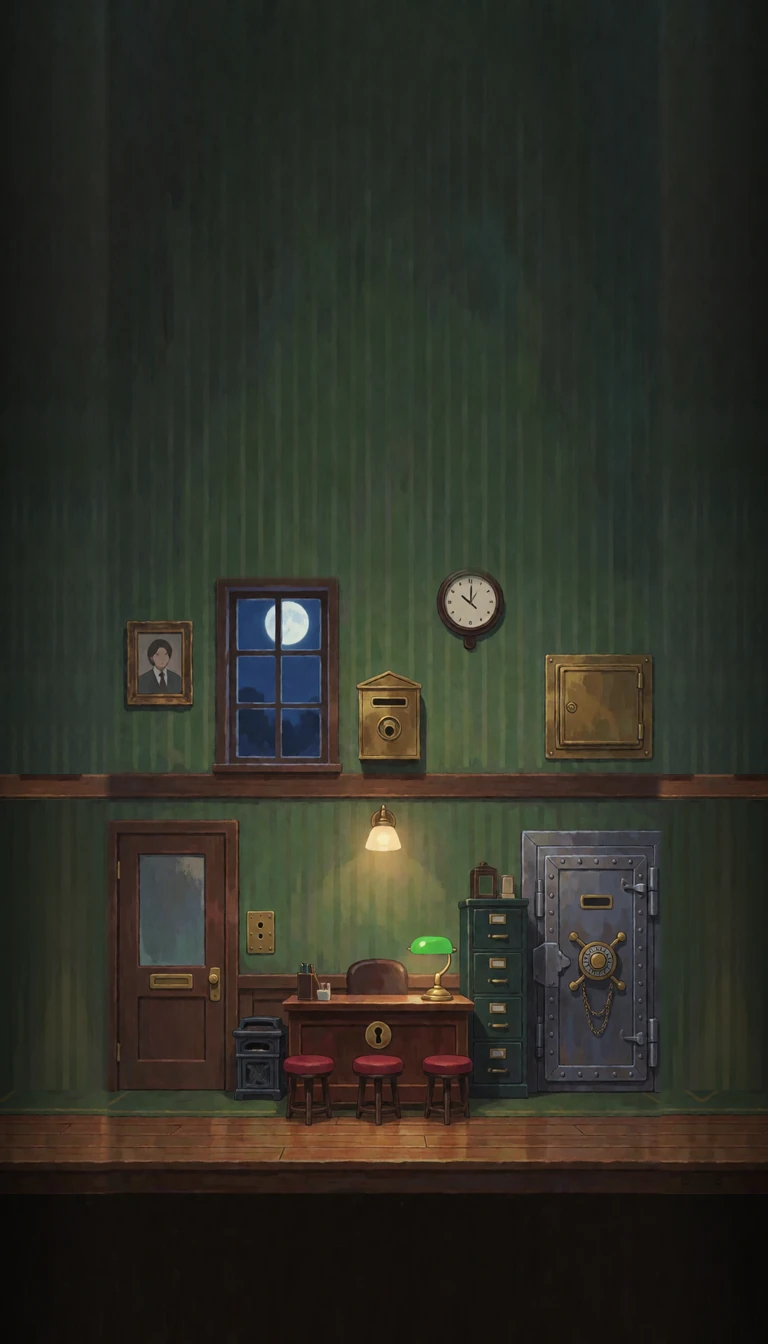
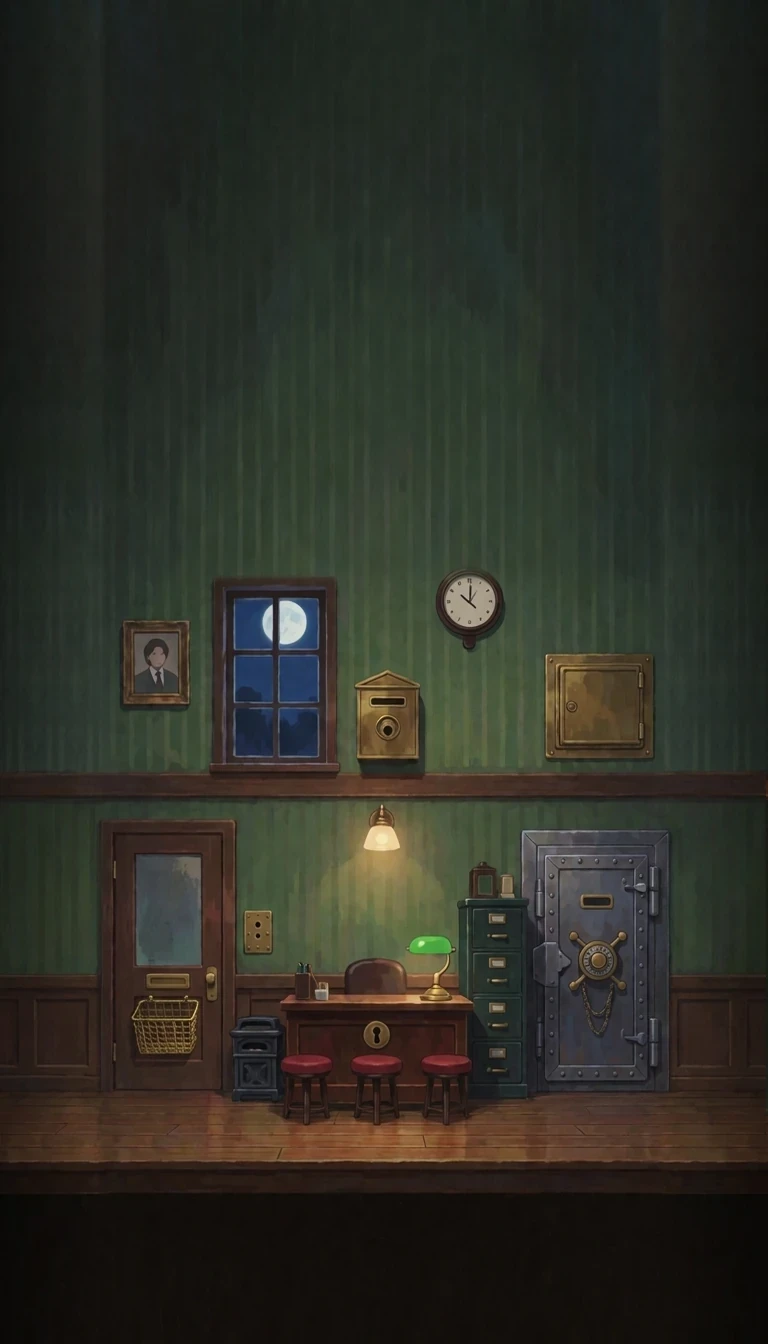
Rush claim 7: repaint the office backdrops (#243)
* Rush: sound (the floor's loop and stings, rain at the dock, recorded samples for the room)

Claude-Session: https://claude.ai/code/session_01JTmPY97Ydb1cE7nuacW8cg

* Rush: Ladi's Mureka music, a cellar loop, a dock loop and the closed and flooded stings

Claude-Session: https://claude.ai/code/session_01JTmPY97Ydb1cE7nuacW8cg

* Rush: claim 6, the Hot Shelf (DynamoDB partitions and hot keys)

The Records Vault: four cabinets are the table's partitions, each with a
write ceiling. One caller's key is hot and throttles its cabinet; the
suffix stamp (write sharding) spreads it, and the on-demand dial is the
trap (it can't lift one partition past its ceiling). The vault is its
own room with its own layout and props (pneumatic tube, vault wheel,
manila folders, filing drawer, step carts, records desk, cabinets),
drawn as placeholders by tools/rush_vault_art.js and swapped in by room.

The review cellar runs alongside with a shared tank, shown in a live
inset (tap, Tab or Q to switch). Review questions come from the run's
answer book, and the intern (a coin buy) answers the ones you've solved,
wrong a quarter of the time; tap its answers to check them.

Also: the Eventually consistent Night Order, six Hot Shelf letters,
sim columns for both rooms, and rush_check through claim 6 with the
hot-cabinet and intern scenarios.

Claude-Session: https://claude.ai/code/session_01JTmPY97Ydb1cE7nuacW8cg
[…]

diff --git a/game/tools/office_art.py b/game/tools/office_art.py
@@ -143,7 +143,7 @@ ROOMS = {
                         bands=[(30, 491, (270, 60, 345, 330), (0, 60, 12, 420)),
                                (491, 640, (395, 428, 488, 662), (0, 440, 12, 640)),
                                (640, 768, (30, 668, 240, 768), None)],
-                        baskets=[(522, 646, 68, 30)]),
+                        baskets=[]),  # the door's in-tray is already painted; the waiting basket is a sprite
     # Tall: the door (y 748-1118, 370 px) becomes 270 px, so scale 0.73; door foot on y 1090 (high enough that the
     # stools clear the phone's belt, and less bare wall above the room).
     # Game coords of a render point (x, y): (103 + 0.73x, 274 + 0.73y).
@@ -154,8 +154,8 @@ ROOMS = {
                                (800, 1090, (240, 725, 330, 870), (755, 700, 768, 760)),
                                (1090, 1194, (10, 1122, 170, 1258), None),
                                (1194, 1344, (10, 1262, 170, 1344), None)],
-                        # wire baskets sketched in for the repaint: the waiting basket, and an in-tray under the slot
-                        baskets=[(196, 1158, 68, 30), (176, 1022, 56, 22)]),
+                        # a wire in-tray sketched under the slot for the repaint (the waiting basket is a sprite)
+                        baskets=[(176, 1022, 56, 22)]),
 }
 
 # ---- Sprites: (source, out name, longest side in px at 2x the on-screen size) ----

diff --git a/game/CREDITS.md b/game/CREDITS.md
@@ -108,7 +108,7 @@ Everything here was first made for or gathered by the first game, [Isekai'd Into
 | The Rush prototype's other sound (`rush.html`) | No new files: it reuses recordings already credited here, the rain bed `a-rain`, and the samples `s-x-lever`, `s-x-bell`, `s-x-stamp`, `s-x-page`, `s-x-lock`, `s-x-tick`, `s-x-chime`, `s-thud`, `s-clank2`, `s-coin`, `s-right` and `s-wrong`, with the synth in `js/audio.js` for the rest | As credited on each file's own line | The Rush prototype (`js/rush.js`) |
 | The Rush's Records Vault, claim 6: the props in `assets/img/rush/vault/` (three record folders, the filing drawer, two step stools, the records desk) | Generated with Sogni AI (krea2_turbo_fp8_scaled) on Ladi's account on 2026-11-17, from prompts written for this game (project files real-game/v3/claims/claim-6/sogni-prompts.md); one take picked from two for each, cut out of their plain backgrounds and resized by `tools/rush_vault_pack.py`, converted to WebP | Generated for this game; used under Sogni's terms for generated output | The Rush prototype, claim 6 (`rush.html`, `js/rush.js`) |
 | The Rush's painted buys (`assets/img/rush/props/*.webp`): the ledger, hourglass, stopwatch, filter funnel, suffix stamp, on-demand dial, intern's clipboard, memory module, warm stool, jitter gauge, hand-off tray, TTL tag, partial-batch clipboard, failure crate, retry dial, the office's waiting basket and the yard's manifest | Generated with Sogni AI (krea2_turbo_fp8_scaled) on Ladi's account (subscription, no Spark) on 2026-11-17, from prompts written for this game; one take picked from two to six for each, cut out of their plain grey backgrounds, trimmed and resized, converted to WebP | Generated for this game; used under Sogni's terms for generated output | The Rush prototype's belt and rooms, claims 1 to 7 and 9 (`rush.html`, `js/rush.js`); the code drawings stay as a fallback |
-| The Rush's Locked Desk, claim 7: the postmaster's office, wide and tall (`assets/img/rush/office-wide.webp`, `office-tall.webp`), and its sprites (`assets/img/rush/of-*.webp`: the latch in three lamp colours, the cabinet sign in three settings, the desk lock and turned key, Mira seated, the badge, the keyring, the data-key pad, the key tin, the drawer, the safe and its turning dial, the sticky note, the dumbwaiter, the shredder, the key box's red light, and the letters and parcels by kind) | Generated with Sogni AI (krea2_turbo_fp8_scaled) on Ladi's account, 2026-11-17, from prompts written for this game (project files real-game/v3/claims/claim-7/sogni-prompts.md); one take picked for each. No other image model was used: the rooms were scaled to the game's human scale and extended to the frame from the renders' own wall, wainscot and floor, and the props cut out of their plain backgrounds, by `tools/office_art.py` (PIL), then converted to WebP | Generated for this game; used under Sogni's terms for generated output | The Rush prototype, claim 7 (`rush.html?claim=locked`, `js/rush.js`) |
+| The Rush's Locked Desk, claim 7: the postmaster's office, wide and tall (`assets/img/rush/office-wide.webp`, `office-tall.webp`), and its sprites (`assets/img/rush/of-*.webp`: the latch in three lamp colours, the cabinet sign in three settings, the desk lock and turned key, Mira seated, the badge, the keyring, the data-key pad, the key tin, the drawer, the safe and its turning dial, the sticky note, the dumbwaiter, the shredder, the key box's red light, and the letters and parcels by kind) | Generated with Sogni AI (krea2_turbo_fp8_scaled) on Ladi's account, 2026-11-17, from prompts written for this game (project files real-game/v3/claims/claim-7/sogni-prompts.md); one take picked for each. The rooms were scaled to the game's human scale and extended to the frame from the renders' own wall, wainscot and floor by `tools/office_art.py` (PIL), then each room was repainted once with Google Gemini (gemini-3-pro-image-preview, prompt `tools/office_repaint_prompt.txt`, 2026-11-17) to blend the seams and paint the door's wire in-tray, fitted back by `office_art.py --gem-fit`; a stray hanging plate the repaint added to the tall room was patched back to the Sogni wall. The props were cut out of their plain backgrounds by `office_art.py` and converted to WebP | Generated for this game; used under Sogni's terms for generated output | The Rush prototype, claim 7 (`rush.html?claim=locked`, `js/rush.js`) |
 | The Records Vault's room (`assets/img/rush/vault-wide.webp`, `vault-tall.webp`) with its vault door, four filing cabinets, pneumatic tube, mail basket and desk painted in | Ladi's Sogni vault backdrop and props above, laid out as a rough collage, then repainted as one room by Google's Gemini image model (gemini-3-pro-image-preview) through the Gemini API on Ladi's account on 2026-11-17 (the wide room repainted to one human scale in two edits; the tall one recomposed from it, its fourth cabinet pasted in and the wall behind repainted; the door's wheel redrawn face-on in a close-up edit by the same model and pasted back over a circle); scaled to the game's size and converted to WebP | Sogni's terms for the source images; the [Gemini API Additional Terms of Service](https://ai.google.dev/gemini-api/terms) for the edits | The Rush prototype, claim 6 (`rush.html`, `js/rush.js`) |
 | The Night Audit's Watch Room, claim 8: the sprites in `assets/img/rush/watch/` (the porter standing and walking, the gauge and the 1-second dial, four ticket capsules, the tracer spool, the pin, the klaxon, the EMF stamp, the tally, the rule card, the lens, the logbook, the Engine's shutter, the clock key, the question table and the mail slot) | Generated with Sogni AI (krea2_turbo_fp8_scaled) on Ladi's account, 2026-11-17, from prompts written for this game (project files real-game/v3/claims/claim-8/sogni-prompts.md); cut out of their plain backgrounds and resized by `tools/rush_watch_pack.py`, converted to WebP | Generated for this game; used under Sogni's terms for generated output | The Rush prototype, claim 8 (`rush.html?claim=audit`, `js/rush.js`) |
 | The Watch Room itself, wide and tall (`assets/img/rush/watch-wide.webp`, `watch-tall.webp`), with its four cabinets, longcase clock, ink column and out basket painted in | Generated with Sogni AI (krea2_turbo_fp8_scaled) on Ladi's account, 2026-11-17 (the empty rooms and the props above), laid out as a rough collage by `tools/rush_watch_collage.py`, then repainted as one room by Google's Gemini image model (gemini-3-pro-image-preview) through the Gemini API on Ladi's account on 2026-11-17 (one edit each, wide and tall); cropped to the game's size by `tools/rush_watch_pack.py` and converted to WebP. The clock's hands and face, the gauges' needles, the ink and everything bought are still drawn in code; no new sounds | Sogni's terms for generated output and the [Gemini API Additional Terms of Service](https://ai.google.dev/gemini-api/terms) | The Rush prototype, claim 8 (`rush.html?claim=audit`, `js/rush.js`, `js/rush-audit.js`) |
